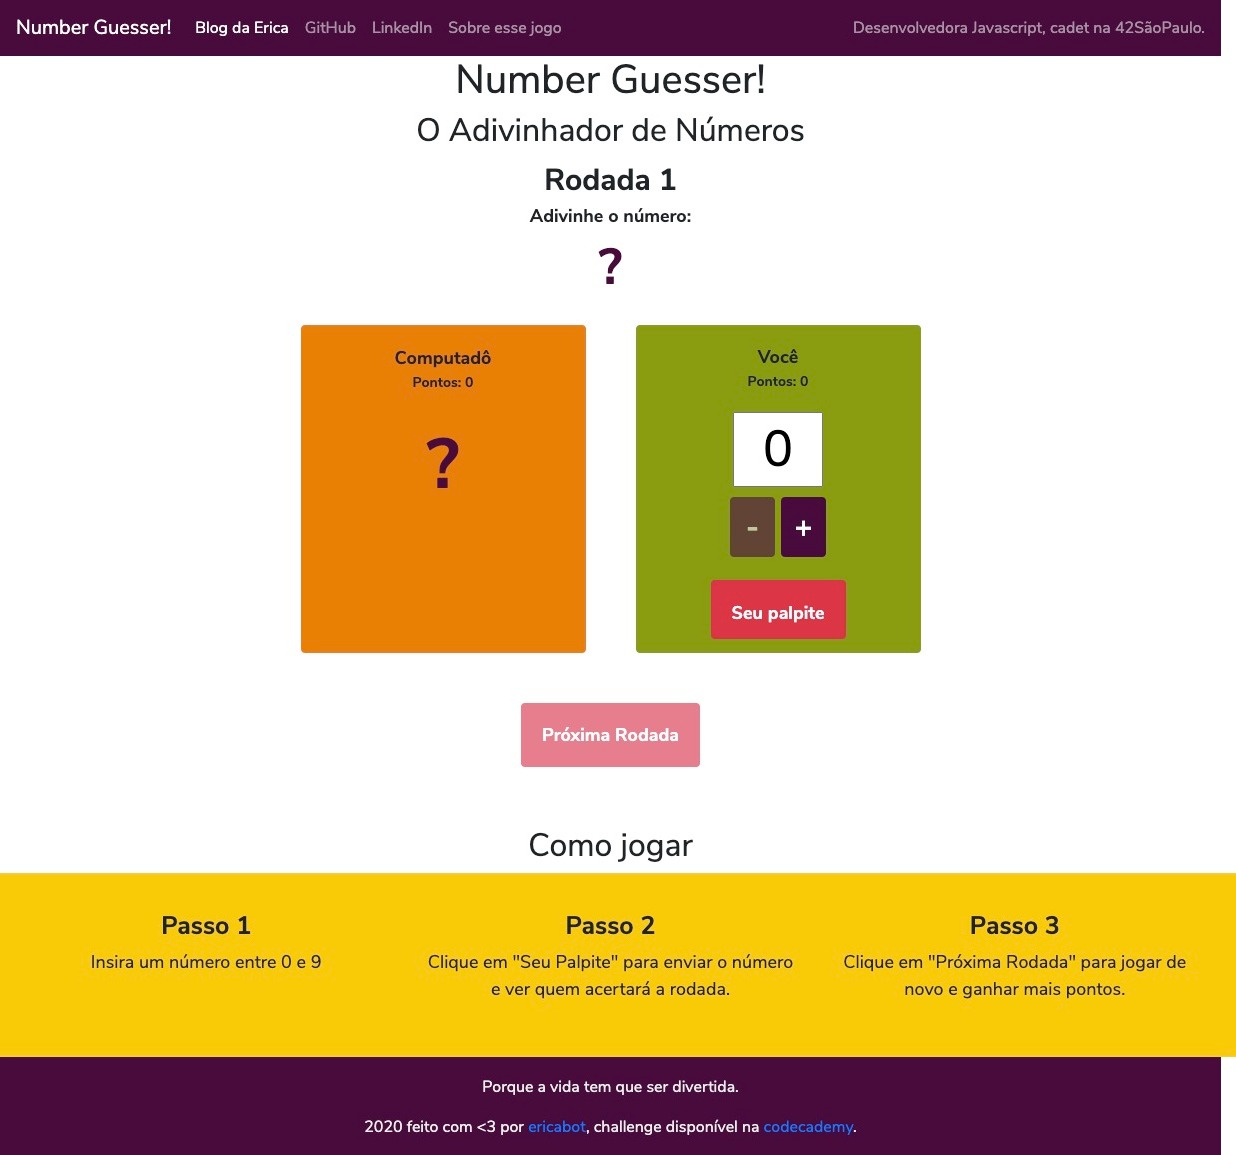
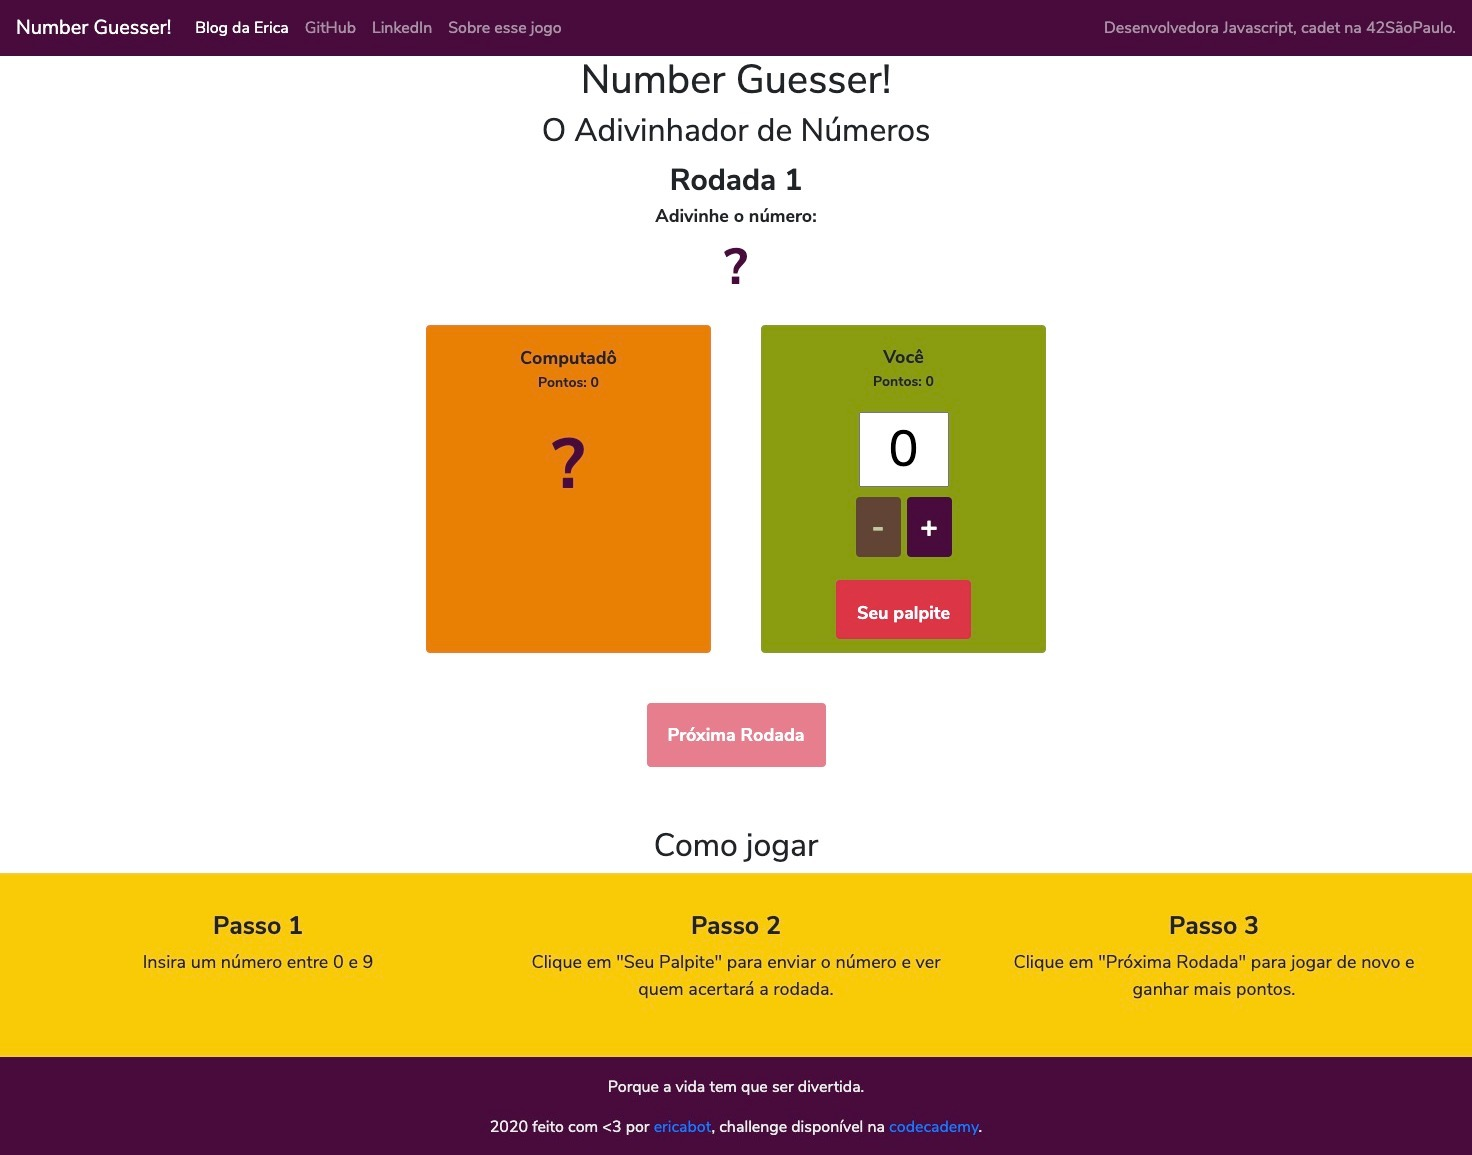
adicionando arquivos corrigidos

diff --git a/index.html b/index.html
@@ -13,32 +13,34 @@
     <link rel="stylesheet" href="style.css">
   </head>
   <body>
+    <!-- <div class="col-12"> -->
+      <nav class="navbar navbar-expand-lg navbar-dark" style="background-color:#490A3D">
+        <a class="navbar-brand" href="#numberGuesser"> Number Guesser! </a>
+        <button class="navbar-toggler" type="button" data-toggle="collapse" data-target="#navbarText" aria-controls="navbarText" aria-expanded="false" aria-label="Toggle navigation">
+          <span class="navbar-toggler-icon"></span>
+        </button>
+        <div class="collapse navbar-collapse" id="navbarText">
+          <ul class="navbar-nav mr-auto">
+            <li class="nav-item active">
+              <a class="nav-link" href="https://esuguimo.com.br">Blog da Erica <span class="sr-only">(conheça meu site)</span></a>
+            </li>
+            <li class="nav-item">
+              <a class="nav-link" href="https://github.com/EricaSugui">GitHub</a>
+            </li>
+            <li class="nav-item">
+              <a class="nav-link" href="https://www.linkedin.com/in/ericasuguimoto/">LinkedIn</a>
+            </li>
+            <li class="nav-item">
+              <a class="nav-link" href="./sobre.html">Sobre esse jogo</a>
+            </li>
+          </ul>
+          <span class="navbar-text">
+            Desenvolvedora Javascript, cadet na 42SãoPaulo.
+          </span>
+        </div>
+      </nav>
+    <!-- </div> -->
     
-    <nav class="navbar navbar-expand-lg navbar-dark" style="background-color:#490A3D">
-      <a class="navbar-brand" href="#numberGuesser"> Number Guesser! </a>
-      <button class="navbar-toggler" type="button" data-toggle="collapse" data-target="#navbarText" aria-controls="navbarText" aria-expanded="false" aria-label="Toggle navigation">
-        <span class="navbar-toggler-icon"></span>
-      </button>
-      <div class="collapse navbar-collapse" id="navbarText">
-        <ul class="navbar-nav mr-auto">
-          <li class="nav-item active">
-            <a class="nav-link" href="https://esuguimo.com.br">Blog da Erica <span class="sr-only">(conheça meu site)</span></a>
-          </li>
-          <li class="nav-item">
-            <a class="nav-link" href="https://github.com/EricaSugui">GitHub</a>
-          </li>
-          <li class="nav-item">
-            <a class="nav-link" href="https://www.linkedin.com/in/ericasuguimoto/">LinkedIn</a>
-          </li>
-          <li class="nav-item">
-            <a class="nav-link" href="./sobre.html">Sobre esse jogo</a>
-          </li>
-        </ul>
-        <span class="navbar-text">
-          Desenvolvedora Javascript, cadet na 42SãoPaulo.
-        </span>
-      </div>
-    </nav>
 
     <div class="game-container">
       
@@ -88,7 +90,7 @@
     </div>
     <div class="instructions-header text-center"><h2>Como jogar</h2></div>
     
-    <div class="instructions row">
+    <div class="instructions">
       
       <div class="instruction col">
         <h3>Passo 1</h3>
@@ -103,7 +105,7 @@
         <p>Clique em "Próxima Rodada" para jogar de novo e ganhar mais pontos.</p>
       </div>
     </div>
-    <div class="footer text-center container-fluid">
+    <div class="footer text-center">
       <p>Porque a vida tem que ser divertida.</p>
       <p>2020 feito com <3 por <a href="https://esuguimo.com.br">ericabot</a>, challenge disponível na <a href="https://www.codecademy.com/">codecademy</a>.</p>
     </div>

diff --git a/style.css b/style.css
@@ -438,6 +438,7 @@
   .footer {
     display: flex;
     flex-direction: column;
+    justify-content: space-around;
     text-align: center;
     color: #ececec;
     background-color: #490A3D;
